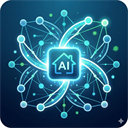
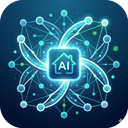
chore: release v0.9.6
Ship the public docs, transparent store assets, and leftover 0.9.x
correctness fixes so the Supervisor can pick up a new add-on version.

diff --git a/ha-claw/CHANGELOG.md b/ha-claw/CHANGELOG.md
@@ -6,10 +6,11 @@ as written — rewriting shipped release notes destroys the record without helpi
 Format follows https://keepachangelog.com.
 -->
 
-## Unreleased
+## 0.9.6
 
-Documentation and repository housekeeping, the stale-sensor correction, and the leftover
-0.9.x correctness items.
+Public documentation, store assets that Home Assistant can actually display, and the leftover
+0.9.x correctness items: a hung tool no longer stalls the loop, a failing backlog task stops
+after three attempts, and a quiet sensor is not treated as dead.
 
 ### Added
 
@@ -41,6 +42,9 @@ Documentation and repository housekeeping, the stale-sensor correction, and the 
 
 ### Fixed
 
+- **Add-on icon corners are transparent again.** The 128×128 resize flattened the rounded
+  corners onto white. `icon.png` is rebuilt from the original artwork with a real alpha
+  channel; the 250×100 wordmark no longer has white triangles around the mark.
 - **Tool executions time out after 15 seconds** instead of stalling the agentic loop and the
   HTTP request. The model sees the timeout as a tool error.
 - **Backlog tasks stop retrying after three failures.** Generation or execution increments

diff --git a/docs/roadmap.md b/docs/roadmap.md
@@ -1,6 +1,6 @@
 # Roadmap and Product Direction
 
-Current version: **0.9.5**. Last reviewed: 2026-08-30.
+Current version: **0.9.6**. Last reviewed: 2026-08-30.
 
 This document answers three questions: what HA-Claw is for, what gap it fills next to Home
 Assistant's own capabilities, and what gets built next. It is opinionated on purpose — a
@@ -83,7 +83,7 @@ contains no features at all.
 
 The leftover correctness items (tool timeouts, backlog retry cap, cache invalidation,
 retryable LLM errors only, clamped `limit`, escaped area names, full action-log lookup,
-honest token-cost label) are in [`CHANGELOG.md`](../ha-claw/CHANGELOG.md) under Unreleased.
+honest token-cost label) shipped in [v0.9.6](../ha-claw/CHANGELOG.md#096).
 Next scheduled work is [v1.0.0](#v100--trust-and-hardening).
 
 ## v1.0.0 — Trust and hardening

diff --git a/README.de.md b/README.de.md
@@ -13,7 +13,7 @@ bevor es etwas anfasst, das dich aussperren oder einen Alarm auslösen könnte.
 
 [![CI](https://github.com/unpaved028/ha-claw/actions/workflows/ci.yml/badge.svg)](https://github.com/unpaved028/ha-claw/actions/workflows/ci.yml)
 [![Lizenz: MIT](https://img.shields.io/badge/License-MIT-blue.svg)](LICENSE)
-[![Add-on-Version](https://img.shields.io/badge/add--on-v0.9.5-0aa8d2.svg)](ha-claw/CHANGELOG.md)
+[![Add-on-Version](https://img.shields.io/badge/add--on-v0.9.6-0aa8d2.svg)](ha-claw/CHANGELOG.md)
 [![Home Assistant](https://img.shields.io/badge/Home%20Assistant-Add--on-41BDF5.svg?logo=home-assistant&logoColor=white)](https://www.home-assistant.io/)
 
 [Installation](#installation) · [Handbuch](ha-claw/DOCS.de.md) · [Roadmap](docs/roadmap.md) · [English](README.md)

diff --git a/README.md b/README.md
@@ -13,7 +13,7 @@ anything that could lock you out or set off an alarm.
 
 [![CI](https://github.com/unpaved028/ha-claw/actions/workflows/ci.yml/badge.svg)](https://github.com/unpaved028/ha-claw/actions/workflows/ci.yml)
 [![License: MIT](https://img.shields.io/badge/License-MIT-blue.svg)](LICENSE)
-[![Add-on version](https://img.shields.io/badge/add--on-v0.9.5-0aa8d2.svg)](ha-claw/CHANGELOG.md)
+[![Add-on version](https://img.shields.io/badge/add--on-v0.9.6-0aa8d2.svg)](ha-claw/CHANGELOG.md)
 [![Home Assistant](https://img.shields.io/badge/Home%20Assistant-Add--on-41BDF5.svg?logo=home-assistant&logoColor=white)](https://www.home-assistant.io/)
 
 [Installation](#installation) · [Documentation](docs/README.md) · [Roadmap](docs/roadmap.md) · [Deutsch](README.de.md)

diff --git a/docs/releasing.md b/docs/releasing.md
@@ -16,8 +16,8 @@ Semantic-ish, pre-1.0:
 
 | Bump | When |
 | --- | --- |
-| **Patch** (`0.9.5` → `0.9.6`) | Bug fixes, documentation, dependency updates |
-| **Minor** (`0.9.5` → `0.10.0`) | New features, new options, behaviour changes users will notice |
+| **Patch** (`0.9.6` → `0.9.7`) | Bug fixes, documentation, dependency updates |
+| **Minor** (`0.9.6` → `0.10.0`) | New features, new options, behaviour changes users will notice |
 | **Major** | Reserved for `1.0.0` — see the [roadmap](roadmap.md#v100--trust-and-hardening) |
 
 The version appears in exactly three places, and CI fails if they disagree:

diff --git a/docs/api.md b/docs/api.md
@@ -39,7 +39,7 @@ Liveness probe. Also the endpoint a Supervisor `watchdog` would use.
 ```json
 {
   "status": "ok",
-  "version": "0.9.5",
+  "version": "0.9.6",
   "uptime": 87231,
   "startedAt": "2026-08-29T21:14:02.104Z",
   "mode": "addon",
